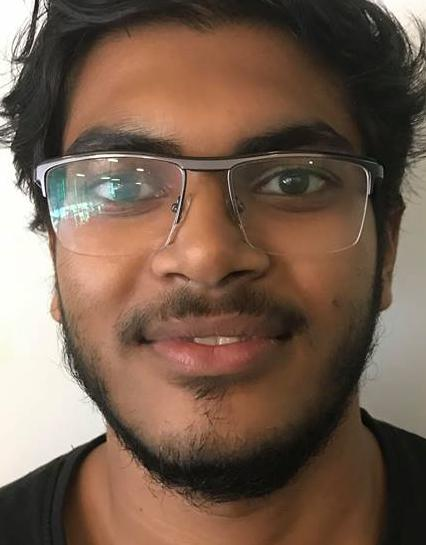
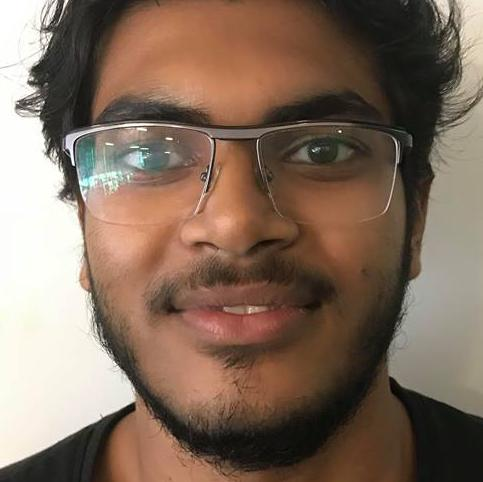
Add new faces and better cropping of faces

diff --git a/video_face_matcher.py b/video_face_matcher.py
@@ -28,7 +28,7 @@ REQUEST_CAMERA_HEIGHT = 480
 # the same face will return 0.0
 # different faces return higher numbers
 # this is NOT between 0.0 and 1.0
-FACE_MATCH_THRESHOLD = 0.85
+FACE_MATCH_THRESHOLD = 0.65
 
 
 # Run an inference on the passed image
@@ -56,7 +56,17 @@ def get_face_loc(vid_frame):
     face_locations = face_recognition.face_locations(vid_frame)
     print("I found {} face(s) in this photograph.".format(len(face_locations)))
     return face_locations
-    
+
+def new_coord(top, right, bottom, left):
+    width = right - left
+    height = bottom - top
+    top = int(top - height/8)
+    bottom = int(bottom + height/8)
+    left = int(left - width/8)
+    right = int(right + width/8)
+    print(top, right, bottom, left)
+    return (top, right, bottom, left)
+
 ## Extracts cropped face images from a video frame based on the face location coordinates given to it
 def extract_faces(vid_frame, face_locations):
     face_img_list=[]
@@ -65,6 +75,9 @@ def extract_faces(vid_frame, face_locations):
        # Print the location of each face in this image
       top, right, bottom, left = face_location
       print("A face is located at pixel location Top: {}, Left: {}, Bottom: {}, Right: {}".format(top, left, bottom, right))
+
+      top, right, bottom, left = new_coord(top, right, bottom, left)
+
 
       # You can access the actual face itself like this:
       face_image = vid_frame[top:bottom, left:right]
